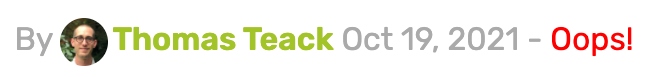
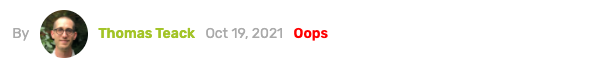
docs(README) : Improve README (#27)
* docs(README): Improve medias

* docs(README): Fix media urls

* docs(README): Change size of error medias

* docs(README): Fix size of error images

* chore: Change component description and keywords

Changed region(s): [[0.0, 0.1515, 0.9664, 0.8788]]

diff --git a/dev/src/App.svelte b/dev/src/App.svelte
@@ -40,7 +40,7 @@
         <span class="name">Thomas Teack</span>
         <span>Oct 19, 2021</span>
         {#await contentPromise then _}
-            <Readotron selector=".text" withScroll
+            <Readotron selector=".text2" withScroll
                        on:change={onReadotronChange}>
                 <span class="readotron" slot="content" let:time let:words>{time} min read ({words} words)</span>
                 <span class="error" slot="error" let:error>Oops</span>
@@ -144,6 +144,10 @@
         border-bottom: 2px dotted #ddd;
         padding-bottom: 30px;
         margin-bottom: 30px;
+    }
+    :global(.error) {
+        color: red;
+        font-weight: 600;
     }
     :global(.progress-bar) {
         background-color: #0075ff;

diff --git a/README.md b/README.md
@@ -1,8 +1,8 @@
 <p align="center">
-    <img src="assets/svelte-readotron.png" alt="svelte-readotron" height="79"/>
+    <img src="assets/svelte-readotron.png" alt="svelte-readotron" height="200"/>
 </p>
 <p align="center">
-    A Svelte component to display an estimated reading time
+    Svelte component to display an estimated reading time
 </p>
 
 ---
@@ -294,13 +294,13 @@ If you use a `<slot>` element, as it will replace the original layout, you have 
 If an error occurs during the parsing phase, the component catches and exposes it through an `error` variable which is displayed as is it by default. That means the error message uses the exact same styles as time value.  
 
 <p align="center">
-    <img src="assets/error-default.png" alt="Default error display" height="79"/>
+    <img src="assets/error-default.png" alt="Default error display" style="max-width: 100%"/>
 </p>
 
 You may want to customize this error message, so the component provides a `slot`, named `error`, which replaces the default display if passed in.
 
 <p align="center">
-    <img src="assets/error-slot.png" alt="Slot error display" height="79"/>
+    <img src="assets/error-slot.png" alt="Slot error display" style="max-width: 100%"/>
 </p>
 
 #### Example
